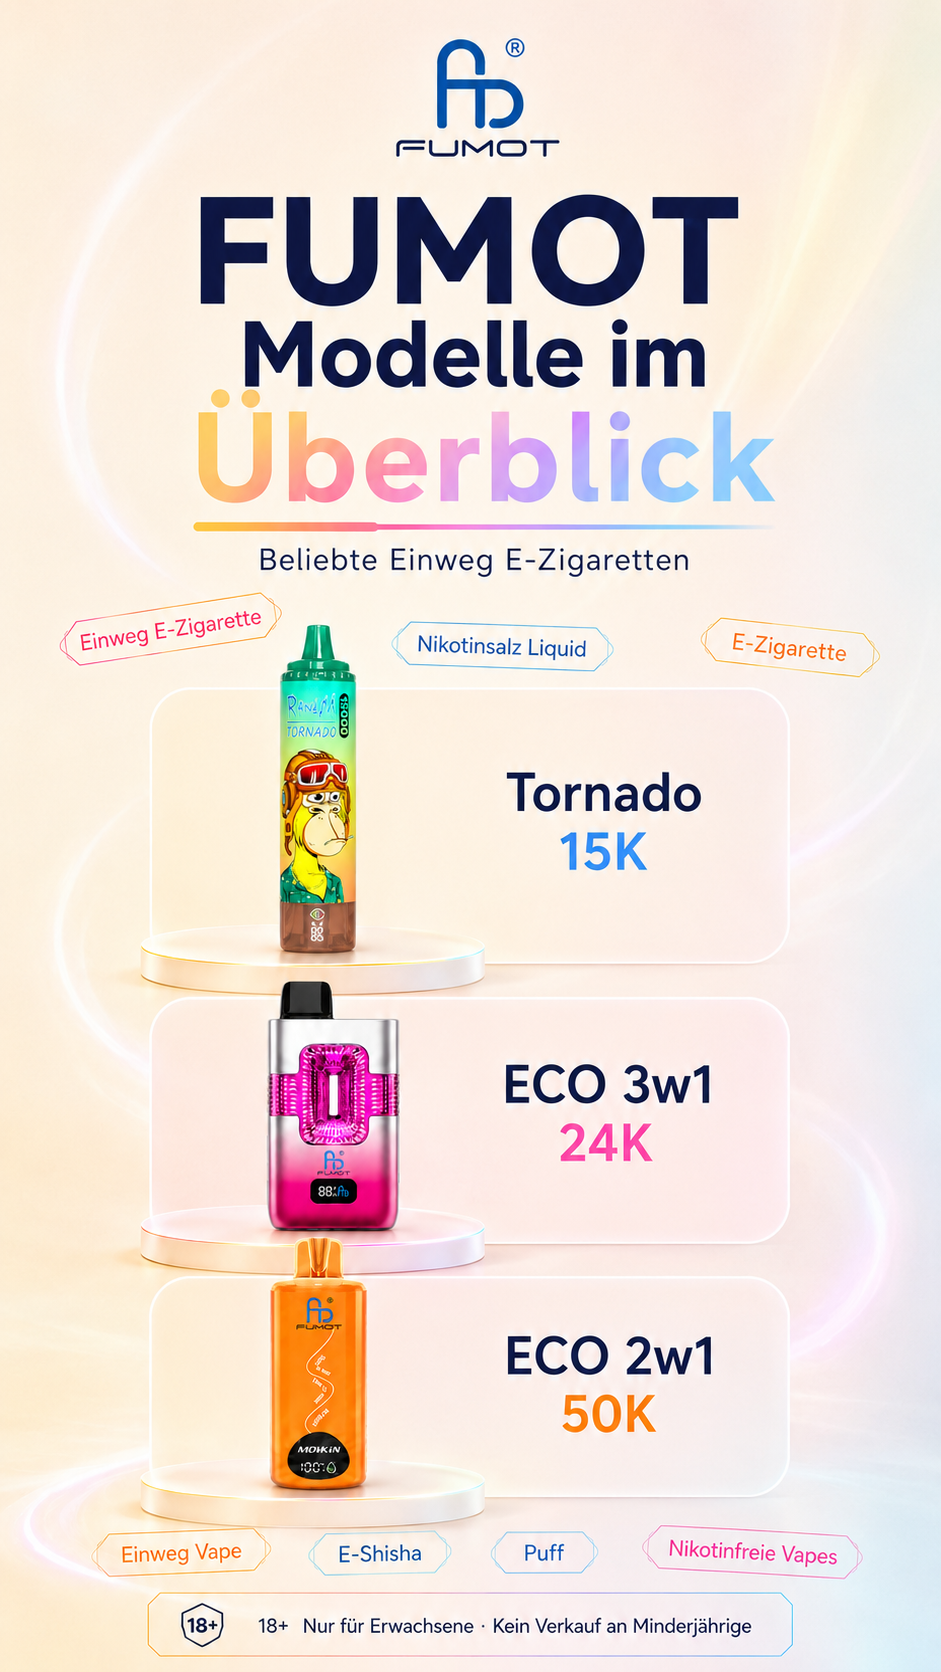
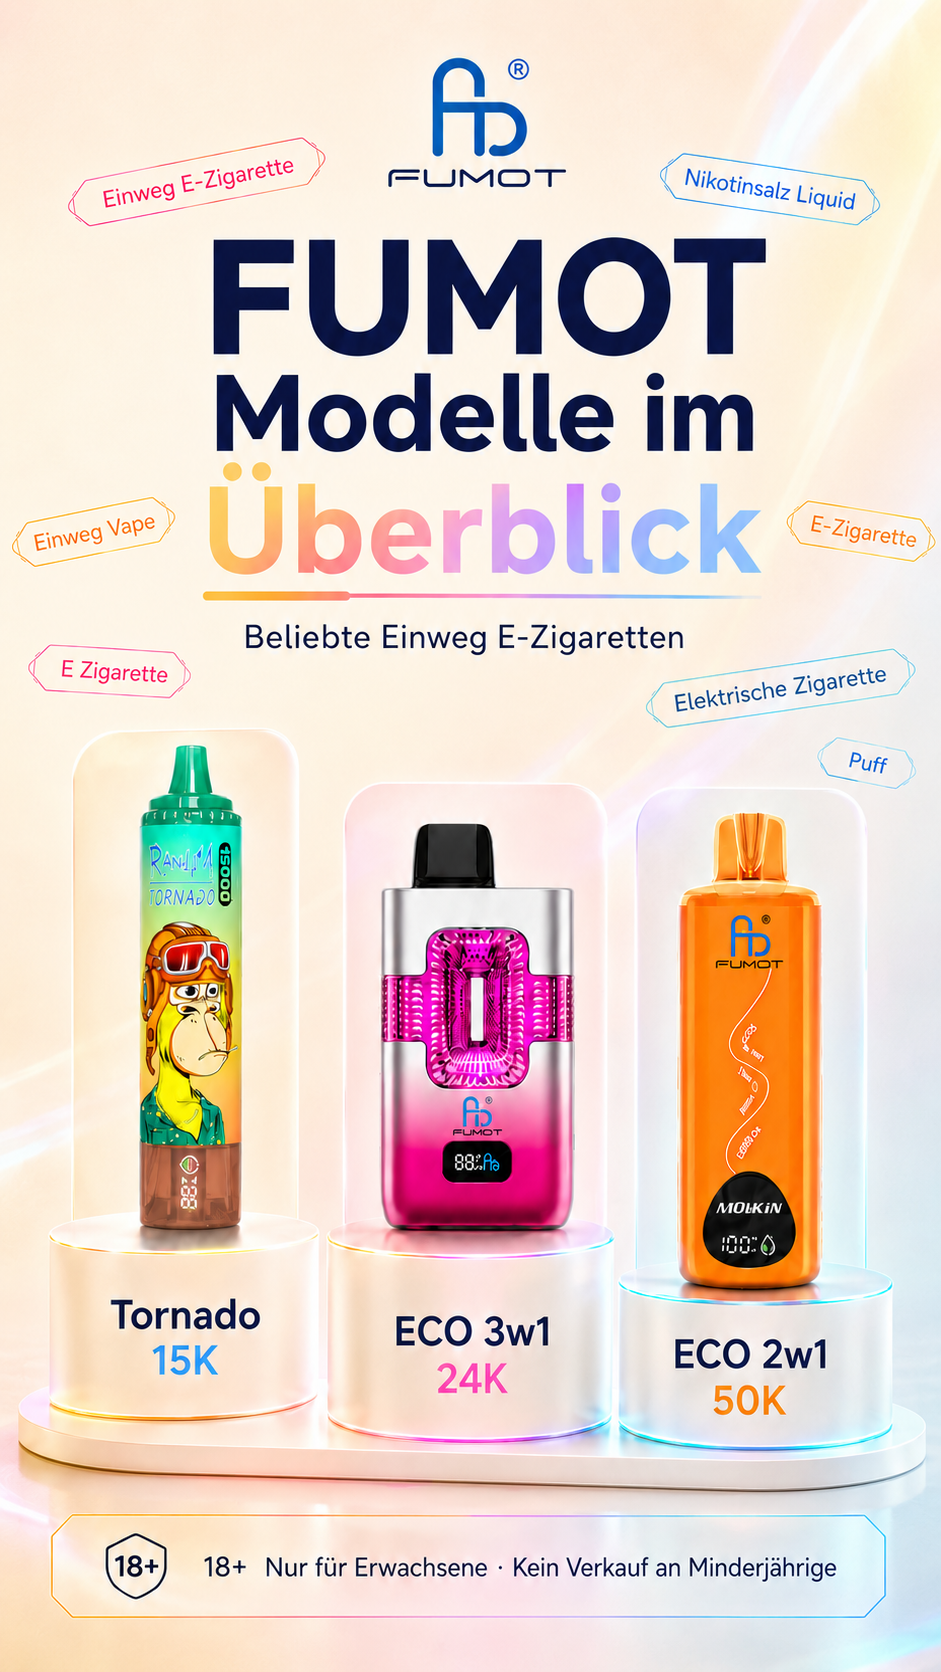
fix

diff --git a/index.html b/index.html
@@ -37,7 +37,7 @@
           "name": "Fumot Dampfer",
           "description": "Fumot Dampfer ist eine informative deutsche Übersicht zu Fumot- und RandM-Modellen für Erwachsene mit Produktlinks zum Shop auf dezig.de.",
           "url": "https://fumotdampfer.de/",
-          "logo": "https://fumotdampfer.de/images/fumot-big.webp",
+          "logo": "https://fumotdampfer.de/images/fumot-favicon.png",
           "image": "https://fumotdampfer.de/images/products/fumot-randm-tornado-30K-e-zigarette.png",
           "contactPoint": {
             "@type": "ContactPoint",
@@ -169,42 +169,42 @@
           "mainEntity": [
             {
               "@type": "Question",
-              "name": "Was ist diese Seite?",
+              "name": "Welche FUMOT Modelle werden vorgestellt?",
               "acceptedAnswer": {
                 "@type": "Answer",
-                "text": "Fumot Dampfer ist eine informative deutsche Übersicht zu den auf dieser Seite gezeigten Fumot- und RandM-Modellen und enthält Produktlinks zum Shop auf dezig.de."
+                "text": "Wir zeigen beliebte Modelle wie Eco 2W1 50K, Tornado 15K, T9000, Tornado 9K, Tornado 30K, Digital Box 12K, Tornado 25K, Digital Monkey 40K und Leopard 40K."
               }
             },
             {
               "@type": "Question",
-              "name": "Ist diese Seite ein Online-Shop?",
+              "name": "Was bedeutet die Anzahl der Züge?",
               "acceptedAnswer": {
                 "@type": "Answer",
-                "text": "Nein. Diese Seite bietet Informationen und verweist auf Produkt- und Kollektionsseiten auf dezig.de."
+                "text": "Die Angabe 9K bis 50K beschreibt die maximale Anzahl der möglichen Züge und erleichtert den Vergleich verschiedener Einweg E-Zigaretten."
               }
             },
             {
               "@type": "Question",
-              "name": "Welche Modelle oder Sammlungen werden gezeigt?",
+              "name": "Welche Geschmacksrichtungen sind verfügbar?",
               "acceptedAnswer": {
                 "@type": "Answer",
-                "text": "Gezeigt werden Modelle wie Fumot Eco 2 in 1 - 50K, Fumot Digital Box 12K, Fumot T9000 9K, Fumot Tornado 15K, Fumot Tornado 25K, Fumot Tornado 30K, Fumot Digital Monkey 40K, Fumot Leopard 40K sowie RandM Tornado 9K."
+                "text": "Viele Modelle sind in verschiedenen Geschmacksrichtungen erhältlich. Die Auswahl kann je nach Modell und Version variieren."
               }
             },
             {
               "@type": "Question",
-              "name": "Wo kann ich die Produkte einsehen?",
+              "name": "Was ist der Unterschied zwischen einer E-Zigarette und einer Einweg E-Zigarette?",
               "acceptedAnswer": {
                 "@type": "Answer",
-                "text": "Die Produkte sind über die Links auf dezig.de in den Karten, den Modellabschnitten und der Fumot-Sammlung erreichbar."
+                "text": "Eine Einweg E-Zigarette ist sofort einsatzbereit und muss nicht nachgefüllt werden. Sie gehört zur Kategorie der elektrischen Zigaretten."
               }
             },
             {
               "@type": "Question",
-              "name": "Für wen ist dieser Inhalt gedacht?",
+              "name": "Für wen sind die Produkte geeignet?",
               "acceptedAnswer": {
                 "@type": "Answer",
-                "text": "Dieser Inhalt ist nur für Erwachsene gedacht. Der Hinweis zu Nikotin und die Altersprüfung bleiben auf dieser Seite erhalten."
+                "text": "Die Informationen auf dieser Seite richten sich ausschließlich an Erwachsene ab 18 Jahren."
               }
             }
           ],
@@ -236,7 +236,7 @@
     </div>
     <div class="nav-container">
       <div class="logo">
-        <a href="https://dezig.de/" target="_blank"> <img src="images/fumot-big.webp"
+        <a href="https://dezig.de/" target="_blank"> <img src="images/fumot-favicon.png"
             alt="Fumot - Einweg-Vapes und elektronische Zigaretten für Erwachsene" decoding="async" loading="lazy"></a>
       </div>
 
@@ -316,9 +316,10 @@
           <div class="carousel-card-overlay">
             <h3 class="carousel-title">Fumot Digital Box 12K</h3>
             <p class="carousel-flavor">Einweg-Vape</p>
+            <span class="carousel-buy">Jetzt kaufen</span>
           </div>
         </a>
-        <a href="https://dezig.de/product-category/fumot-de/" class="carousel-card" target="_blank">
+        <a href="https://dezig.de/en/product/fumot-t9000-2-nicotine-rechargeable-pod-vape/" class="carousel-card" target="_blank">
           <div class="carousel-card-image">
             <img src="images/products/fumot-T900-e-zigarette.png"
               alt="Fumot T9000 9K - Einweg-E-Zigarette mit 9000 Zügen und weichem Dampf" decoding="async" loading="lazy">
@@ -326,6 +327,7 @@
           <div class="carousel-card-overlay">
             <h3 class="carousel-title">Fumot T9000 9K</h3>
             <p class="carousel-flavor">Einweg-Vape</p>
+            <span class="carousel-buy">Jetzt kaufen</span>
           </div>
         </a>
         <a href="https://dezig.de/product/fumot-tornado-15k-einweg-vape-disposable-2-nikotin/" class="carousel-card" target="_blank">
@@ -336,9 +338,10 @@
           <div class="carousel-card-overlay">
             <h3 class="carousel-title">Fumot Tornado 15K</h3>
             <p class="carousel-flavor">Einweg-Vape</p>
+            <span class="carousel-buy">Jetzt kaufen</span>
           </div>
         </a>
-        <a href="https://dezig.de/product-category/fumot-de/" class="carousel-card" target="_blank">
+        <a href="https://dezig.de/product/fumot-tornado-25k-einweg-vape-disposable-2-nikotin/" class="carousel-card" target="_blank">
           <div class="carousel-card-image">
             <img src="images/products/fumot-randm-tornado-25K-e-zigarette.png"
               alt="Fumot Tornado 25K - vape mit Nikotin, vielen Zügen und konstantem Geschmack" decoding="async" loading="lazy">
@@ -346,6 +349,7 @@
           <div class="carousel-card-overlay">
             <h3 class="carousel-title">Fumot Tornado 25K</h3>
             <p class="carousel-flavor">Einweg-Vape</p>
+            <span class="carousel-buy">Jetzt kaufen</span>
           </div>
         </a>
         <a href="https://dezig.de/product/fumot-tornado-30000-music-einweg-vape-disposable-2-nikotin/" class="carousel-card" target="_blank">
@@ -356,6 +360,7 @@
           <div class="carousel-card-overlay">
             <h3 class="carousel-title">Fumot Tornado 30K</h3>
             <p class="carousel-flavor">Einweg-Vape</p>
+            <span class="carousel-buy">Jetzt kaufen</span>
           </div>
         </a>
       </div>
@@ -374,11 +379,11 @@
   <!-- Features Section -->
   <section id="features" class="features">
     <div class="features-container">
-      <h2 class="section-title">Fumot Eco 2 in 1 - 50K, 50000 Züge</h2>
+      <h2 class="section-title">Fumot Eco 2 in 1 - 50K</h2>
       <div class="features-grid">
         <div class="feature-content">
           <p class="feature-text">
-            Das <strong>Fumot ECO 2in1 50K</strong> verbindet moderne Technik mit einer stabilen Nutzung und einem klaren Geschmack über die gesamte Laufzeit. Mit einem Mesh-Coil von 0,9 Ω liefert das Einweg-Vape eine gleichmäßige Verdampfung, dichten Dampf und eine angenehm intensive Wahrnehmung. Außerdem bietet das Modell eine wiederaufladbare 1100-mAh-Batterie mit USB-C und ein intelligentes LED-Display für den aktuellen Status.
+            Das <strong>Fumot ECO 2in1 50K</strong> verbindet moderne Technik mit einer stabilen Nutzung und einem klaren Geschmack über die gesamte Laufzeit. Mit bis zu 50000 Zügen und einem Mesh-Coil von 0,9 Ω liefert das Einweg-Vape eine gleichmäßige Verdampfung, dichten Dampf und eine angenehm intensive Wahrnehmung. Außerdem bietet das Modell eine wiederaufladbare 1100-mAh-Batterie mit USB-C und ein intelligentes LED-Display für den aktuellen Status.
             <br><br>
             Für Nutzer, die Einweg-Vapes vergleichen, ist dieses Modell interessant, wenn es auf Reichweite, klare Anzeige und konsistente Geschmacksprofile ankommt. Vor dem Kauf sollte man immer die Puffzahl, Akkukapazität, Nikotinstärke des Herstellers und die Verfügbarkeit prüfen.
             <br><br>
@@ -395,7 +400,7 @@
     </div>
 
     <div class="features-container" style="margin-top: 5rem;">
-      <h2 class="section-title">Fumot Digital Monkey 40K 40000 Züge</h2>
+      <h2 class="section-title">Fumot Digital Monkey 40K</h2>
       <div class="features-grid">
         <div class="feature-image-large">
           <img src="images/products/fumot-digital-monkey-40K-e-zigarette.png"
@@ -403,7 +408,7 @@
         </div>
         <div class="feature-content">
           <p class="feature-text">
-            Das <strong>Fumot Digital Monkey 40K</strong> nutzt Dual-Mesh-Coil-Technologie für dichten Dampf und authentische Geschmacksnoten von den ersten bis zu den letzten Zügen. Der Zwei-Modus-Betrieb ermöglicht zwischen Single (S) für einen sparsameren Einsatz und Dual (D) für eine intensivere Nutzung zu wechseln.
+            Das <strong>Fumot Digital Monkey 40K</strong> nutzt Dual-Mesh-Coil-Technologie für dichten Dampf und authentische Geschmacksnoten von den ersten bis zu den letzten Zügen. Mit bis zu 40000 Zügen erlaubt der Zwei-Modus-Betrieb den Wechsel zwischen Single (S) für einen sparsameren Einsatz und Dual (D) für eine intensivere Nutzung.
             <br><br>
             Mit einer 850-mAh-Batterie, schnellem USB-C-Laden und einem digitalen Display gehört das Fumot Digital Monkey 40K zu den vielseitigsten Einweg-Vapes mit hoher Kapazität. Es ist eine praktische Wahl für Erwachsene, die Reichweite, klare Geschmacksprofile und ein einfaches Gerät bevorzugen.
             <br><br>
@@ -419,7 +424,7 @@
 
     <!-- Additional Feature 2: RandM Tornado 9K (Image Right, Text Left) -->
     <div class="features-container" style="margin-top: 5rem;">
-      <h2 class="section-title">RandM Tornado 9K, 9000 Züge</h2>
+      <h2 class="section-title">RandM Tornado 9K</h2>
       <div class="features-grid">
         <div class="feature-content">
           <p class="feature-text">
@@ -442,7 +447,7 @@
 
     <!-- Additional Feature 3: Leopard 40K (Image Right, Text Left) -->
     <div class="features-container" style="margin-top: 5rem;">
-      <h2 class="section-title">Fumot Leopard 40K, 40000 Züge</h2>
+      <h2 class="section-title">Fumot Leopard 40K</h2>
       <div class="features-grid">
         <div class="feature-image-large">
           <img src="images/products/fumot-leopard-40K-e-zigarette.png"
@@ -450,7 +455,7 @@
         </div>
         <div class="feature-content">
           <p class="feature-text">
-            Das <strong>Fumot Leopard 40K</strong> integriert Dual-Mesh-Coil-Technologie für eine gleichmäßige Verdampfung des E-Liquids, verstärkte Geschmacksnuancen und dichten Dampf. Das digitale Display hilft, Batteriestand und Flüssigkeitsstatus zu verfolgen, während der 700-mAh-Akku mit USB-C das Gerät für den Alltag bereit hält. Es ist ein Einweg-Vape für Erwachsene, die Reichweite, Komfort und klare Geschmacksprofile schätzen.
+            Das <strong>Fumot Leopard 40K</strong> integriert Dual-Mesh-Coil-Technologie für eine gleichmäßige Verdampfung des E-Liquids, verstärkte Geschmacksnuancen und dichten Dampf. Mit bis zu 40000 Zügen hilft das digitale Display, Batteriestand und Flüssigkeitsstatus zu verfolgen, während der 700-mAh-Akku mit USB-C das Gerät für den Alltag bereit hält. Es ist ein Einweg-Vape für Erwachsene, die Reichweite, Komfort und klare Geschmacksprofile schätzen.
             <br><br>
             Der Unterschied zwischen Einweg-Vapes, Einweg-Pods und anderen Geräten liegt vor allem im Nutzungsformat. Einweg-Modelle sind direkt einsatzbereit, Pods können auf Nachfüll- oder Austauschsysteme aufbauen und andere Geräte erfordern mehr Pflege. Die Auswahl sollte immer anhand der Angaben des Herstellers erfolgen.
             <br><br>
@@ -510,11 +515,11 @@
     <div class="features-container">
       <h2 class="section-title">Häufige Fragen</h2>
       <div class="feature-content">
-        <p class="feature-text"><strong>Was ist diese Seite?</strong><br>Fumot Dampfer ist eine informative deutsche Übersicht zu den auf dieser Seite gezeigten Fumot- und RandM-Modellen und enthält Produktlinks zum Shop auf dezig.de.</p>
-        <p class="feature-text"><strong>Ist diese Seite ein Online-Shop?</strong><br>Nein. Diese Seite bietet Informationen und verweist auf Produkt- und Kollektionsseiten auf dezig.de.</p>
-        <p class="feature-text"><strong>Welche Modelle oder Sammlungen werden gezeigt?</strong><br>Gezeigt werden Modelle wie Fumot Eco 2 in 1 - 50K, Fumot Digital Box 12K, Fumot T9000 9K, Fumot Tornado 15K, Fumot Tornado 25K, Fumot Tornado 30K, Fumot Digital Monkey 40K, Fumot Leopard 40K sowie RandM Tornado 9K.</p>
-        <p class="feature-text"><strong>Wo kann ich die Produkte einsehen?</strong><br>Die Produkte sind über die Links auf dezig.de in den Karten, den Modellabschnitten und der Fumot-Sammlung erreichbar.</p>
-        <p class="feature-text"><strong>Für wen ist dieser Inhalt gedacht?</strong><br>Dieser Inhalt ist nur für Erwachsene gedacht. Der Hinweis zu Nikotin und die Altersprüfung bleiben auf dieser Seite erhalten.</p>
+        <p class="feature-text"><strong>Welche FUMOT Modelle werden vorgestellt?</strong><br>Wir zeigen beliebte Modelle wie Eco 2W1 50K, Tornado 15K, T9000, Tornado 9K, Tornado 30K, Digital Box 12K, Tornado 25K, Digital Monkey 40K und Leopard 40K.</p>
+        <p class="feature-text"><strong>Was bedeutet die Anzahl der Züge?</strong><br>Die Angabe 9K bis 50K beschreibt die maximale Anzahl der möglichen Züge und erleichtert den Vergleich verschiedener Einweg E-Zigaretten.</p>
+        <p class="feature-text"><strong>Welche Geschmacksrichtungen sind verfügbar?</strong><br>Viele Modelle sind in verschiedenen Geschmacksrichtungen erhältlich. Die Auswahl kann je nach Modell und Version variieren.</p>
+        <p class="feature-text"><strong>Was ist der Unterschied zwischen einer E-Zigarette und einer Einweg E-Zigarette?</strong><br>Eine Einweg E-Zigarette ist sofort einsatzbereit und muss nicht nachgefüllt werden. Sie gehört zur Kategorie der elektrischen Zigaretten.</p>
+        <p class="feature-text"><strong>Für wen sind die Produkte geeignet?</strong><br>Die Informationen auf dieser Seite richten sich ausschließlich an Erwachsene ab 18 Jahren.</p>
       </div>
     </div>
   </section>
@@ -523,7 +528,7 @@
     <div class="social">
       <div class="footer-logo">
         <a href="https://dezig.de/" class="logo2" target="_blank">
-          <img src="images/fumot-big.webp" alt="Fumot - Einweg-Vapes und elektronische Zigaretten" style="width: 100px;" decoding="async" loading="lazy">
+          <img src="images/fumot-favicon.png" alt="Fumot - Einweg-Vapes und elektronische Zigaretten" style="width: 100px;" decoding="async" loading="lazy">
         </a>
       </div>
       <div>
@@ -587,15 +592,15 @@
       <div class="foot-cont-one">
         <div class="cont-col">
           <a href="https://dezig.de/" target="_blank">Produkte</a>
-          <a href="https://dezig.de/product-category/fumot-de/" target="_blank">Eco 2W1 50K</a>
+          <a href="https://dezig.de/product/fumot-eco-2in1-50k-einweg-vape-2-nikotin-doppelter-geschmack/" target="_blank">Eco 2W1 50K</a>
           <a href="https://dezig.de/product/fumot-tornado-15k-einweg-vape-disposable-2-nikotin/" target="_blank">Tornado 15K</a>
-          <a href="https://dezig.de/product-category/fumot-de/" target="_blank">T9000</a>
+          <a href="https://dezig.de/en/product/fumot-t9000-2-nicotine-rechargeable-pod-vape/" target="_blank">T9000</a>
           <a href="https://dezig.de/product/randm-tornado-9k-einweg-vape-disposable-2-nikotin-9000-zuege/" target="_blank">Tornado 9K</a>
           <a href="https://dezig.de/product/fumot-tornado-30000-music-einweg-vape-disposable-2-nikotin/" target="_blank">Tornado 30K</a>
           <a href="https://dezig.de/product/fumot-digital-box-12-000-puffs-einweg-vape-disposable-2-nikotin/" target="_blank">Digital Box 12K</a>
-          <a href="https://dezig.de/product-category/fumot-de/" target="_blank">Tornado 25K</a>
-          <a href="https://dezig.de/product-category/fumot-de/" target="_blank">Digital Monkey 40K</a>
-          <a href="https://dezig.de/product-category/fumot-de/" target="_blank">Leopard 40K</a>
+          <a href="https://dezig.de/product/fumot-tornado-25k-einweg-vape-disposable-2-nikotin/" target="_blank">Tornado 25K</a>
+          <a href="https://dezig.de/en/product/fumot-digital-monkey-40k-disposable-vape-2-nicotine/" target="_blank">Digital Monkey 40K</a>
+          <a href="https://dezig.de/en/product/fumot-leopard-40k-disposable-vape-2-nicotine/" target="_blank">Leopard 40K</a>
         </div>
         <div class="cont-col">
           <a href="https://dezig.de/" class="active" target="_blank">Startseite</a>

diff --git a/style.css b/style.css
@@ -1423,8 +1423,6 @@ body.is-ready .hero-buttons {
 }
 
 .carousel-wrapper {
-    --pointer-x: 50%;
-    --pointer-y: 50%;
     overflow: hidden;
 }
 
@@ -1434,12 +1432,11 @@ body.is-ready .hero-buttons {
     inset: 0;
     border-radius: inherit;
     background:
-        radial-gradient(280px circle at var(--pointer-x) var(--pointer-y), rgba(255, 255, 255, 0.12), transparent 62%),
         radial-gradient(circle at 12% 20%, rgba(89, 183, 255, 0.18), transparent 24%);
-    opacity: 0.8;
+    opacity: 0.55;
     mix-blend-mode: screen;
     pointer-events: none;
-    transition: background-position 0.25s ease, opacity 0.25s ease;
+    transition: opacity 0.25s ease;
 }
 
 .carousel-card {
@@ -1552,12 +1549,6 @@ body.is-ready .hero-buttons {
 }
 
 .features-container,
-.product-intro,
-footer {
-    --pointer-x: 50%;
-    --pointer-y: 50%;
-}
-
 .features-container {
     position: relative;
     overflow: hidden;
@@ -1583,7 +1574,7 @@ footer::after {
     position: absolute;
     inset: 0;
     border-radius: inherit;
-    background: radial-gradient(300px circle at var(--pointer-x) var(--pointer-y), rgba(89, 183, 255, 0.14), transparent 62%);
+    background: none;
     opacity: 0;
     transition: opacity var(--transition-medium);
     pointer-events: none;
@@ -1598,7 +1589,7 @@ footer:hover {
 .features-container:hover::after,
 .product-intro:hover::before,
 footer:hover::after {
-    opacity: 1;
+    opacity: 0;
 }
 
 .feature-image-large {
@@ -2119,8 +2110,8 @@ strong {
 }
 
 .carousel-card-image {
-    height: 74%;
-    padding: 1.45rem 1.2rem 1rem;
+    height: 68%;
+    padding: 1.35rem 1.2rem 0.8rem;
 }
 
 .carousel-card-image::before {
@@ -2138,8 +2129,8 @@ strong {
 }
 
 .carousel-card-overlay {
-    min-height: 26%;
-    padding: 1rem 1rem 1.15rem;
+    min-height: 32%;
+    padding: 0.95rem 1rem 1.35rem;
     background: linear-gradient(180deg, rgba(255, 255, 255, 0) 0%, rgba(255, 250, 244, 0.96) 38%, rgba(255, 250, 244, 1) 100%);
 }
 
@@ -2150,7 +2141,8 @@ strong {
 }
 
 .carousel-title {
-    font-size: 2rem;
+    font-size: 1.72rem;
+    line-height: 0.96;
     color: var(--ink-strong);
 }
 
@@ -2162,6 +2154,22 @@ strong {
     background: rgba(33, 31, 58, 0.06);
     font-size: 0.8rem;
     color: var(--ink-soft);
+}
+
+.carousel-buy {
+    display: inline-flex;
+    align-self: flex-start;
+    margin-top: 0.7rem;
+    padding: 0.62rem 1.05rem;
+    border-radius: 999px;
+    background: var(--ink-strong);
+    color: #ffffff;
+    border: 1px solid rgba(33, 31, 58, 0.12);
+    font-size: 0.82rem;
+    font-weight: 800;
+    letter-spacing: 0.02em;
+    box-shadow: 0 14px 28px rgba(33, 31, 58, 0.18);
+    transition: none;
 }
 
 .carousel-btn {
@@ -2736,6 +2744,14 @@ footer svg {
 .carousel-card.active .carousel-flavor {
     color: var(--ink-strong);
     background: rgba(255, 211, 72, 0.28);
+}
+
+.carousel-card:hover .carousel-buy,
+.carousel-card.active .carousel-buy {
+    transform: none;
+    background: var(--ink-strong);
+    box-shadow: 0 14px 28px rgba(33, 31, 58, 0.18);
+    filter: none;
 }
 
 .feature-text-toggle {

diff --git a/script.js b/script.js
@@ -531,25 +531,7 @@ document.addEventListener('DOMContentLoaded', () => {
         mobileFeatureMedia.addListener(updateFeatureTextCollapse);
     }
 
-    const pointerPanels = document.querySelectorAll('.carousel-wrapper, .features-container, .product-intro, footer');
-
     if (!reduceMotion && window.matchMedia('(pointer: fine)').matches) {
-        pointerPanels.forEach((panel) => {
-            const updatePointer = (event) => {
-                const rect = panel.getBoundingClientRect();
-                const x = ((event.clientX - rect.left) / rect.width) * 100;
-                const y = ((event.clientY - rect.top) / rect.height) * 100;
-                panel.style.setProperty('--pointer-x', `${x}%`);
-                panel.style.setProperty('--pointer-y', `${y}%`);
-            };
-
-            panel.addEventListener('mousemove', updatePointer);
-            panel.addEventListener('mouseleave', () => {
-                panel.style.removeProperty('--pointer-x');
-                panel.style.removeProperty('--pointer-y');
-            });
-        });
-
         const heroSurface = document.querySelector('.hero-container');
         const heroFrame = document.querySelector('.image-frame');
 